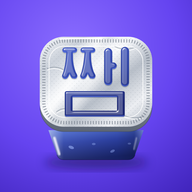
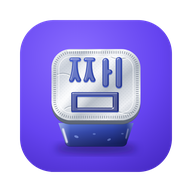
설치 아이콘 pwa-192·512를 둥근 사각형과 투명 여백으로: Windows·Linux 작업 표시줄에서 네모 타일로 보이지 않게(Material 정사각 키라인 152/192)

diff --git a/tools/icon/make-icons.py b/tools/icon/make-icons.py
@@ -3,7 +3,8 @@
 # 원본: tools/icon/A.svg(큰 크기용), tools/icon/A-small.svg(48px 이하용, 디테일을 줄이고 글자를 키움)
 #   글자 윤곽은 SVG 안에 벡터로 들어 있음(쨈 제목 평면 v1.0.1 © 2026 JJAEM Font Team, fonttools로 추출, 곡선 구간을 매끄럽게 다듬음). 폰트 파일은 저장소에 넣지 않음.
 # 만드는 파일(public/, 기존 파일 이름 그대로 덮어씀):
-#   pwa-512.png, pwa-192.png, apple-touch-icon.png(180)  ← A.svg, 꽉 찬 정사각형·투명 없음(모서리는 OS가 깎음)
+#   pwa-512.png, pwa-192.png                             ← A.svg, 둥근 사각형 + 투명 여백(Material 정사각 키라인 152/192, Windows·Linux는 마스크 없이 씀)
+#   apple-touch-icon.png(180)                            ← A.svg, 꽉 찬 정사각형·투명 없음(모서리는 iOS가 깎음)
 #   pwa-maskable-512.png, pwa-maskable.svg                ← A.svg를 90%로 줄여 뚜껑 모서리까지 80% 안전 원 안에 둠
 #   favicon.svg, favicon.ico의 24/48                     ← A-small.svg, 기존처럼 둥근 모서리(rx 114/512)
 #   favicon-16.png, favicon-32.png, favicon.ico의 16/32  ← 픽셀 격자에 맞춘 힌팅판(아래 G16·G32)
@@ -29,6 +30,18 @@ def maskable(svg):
     # 바닥 그림자도 원 마스크에 잘리지 않게 좁고 짧게(안전 원 밖 그림자 알파 ≤ 3%)
     body = re.sub(r'<ellipse cx="512" cy="\d+" rx="\d+" ry="34"([^>]*filter="url\(#sh\)")', r'<ellipse cx="512" cy="836" rx="220" ry="26"\1', body)
     return f'{title}{BG_RECT}\n<g transform="translate(512 512) scale(.9) translate(-512 -512)">{body}</g>\n</svg>\n'
+
+ANY_SCALE = 152 / 192  # Material 제품 아이콘 정사각 키라인(192 격자에서 152×152) → 바깥 여백 20/192 ≈ 10.4%
+
+def any_purpose(svg):
+    """purpose any(pwa-192·512): Windows·Linux Chrome/Edge는 마스크 없이 그대로 쓰므로 둥근 사각형 + 투명 여백.
+    모서리는 파비콘과 같은 rx 228/1024, 크기는 Material 정사각 키라인 152/192(여백 10.4%)."""
+    head, rest = svg.split(BG_RECT)
+    body = rest.replace('</svg>', '')
+    k = ANY_SCALE
+    clip = '<clipPath id="anyclip"><rect width="1024" height="1024" rx="228"/></clipPath>'
+    return (f'{head}<defs>{clip}</defs>\n<g transform="translate(512 512) scale({k:.6f}) translate(-512 -512)"><g clip-path="url(#anyclip)">'
+            f'<rect width="1024" height="1024" rx="228" fill="url(#bg)"/>{body}</g></g>\n</svg>\n')
 
 def rounded(svg, title='쨈 가계부'):
     """파비콘: 배경을 둥근 사각형(rx 228/1024 = 114/512)으로, 모서리는 투명."""
@@ -144,9 +157,11 @@ def main():
         b = p.chromium.launch(args=['--disable-gpu', '--force-color-profile=srgb'])
         pg = b.new_page(device_scale_factor=1)
         full, mask, fav = render(pg, big), render(pg, mask_svg), render(pg, fav_svg)
+        anyp = render(pg, any_purpose(big))
         b.close()
-    for name, s in [('pwa-512.png', 512), ('pwa-192.png', 192), ('apple-touch-icon.png', 180)]:
-        save_png(down(full, s).convert('RGB'), PUB / name)
+    for name, s in [('pwa-512.png', 512), ('pwa-192.png', 192)]:
+        save_png(down(anyp, s), PUB / name)  # 투명 여백이 있는 RGBA
+    save_png(down(full, 180).convert('RGB'), PUB / 'apple-touch-icon.png')
     save_png(down(mask, 512).convert('RGB'), PUB / 'pwa-maskable-512.png')
     h16, h32 = hinted16(), hinted32()
     save_png(h32, PUB / 'favicon-32.png')
